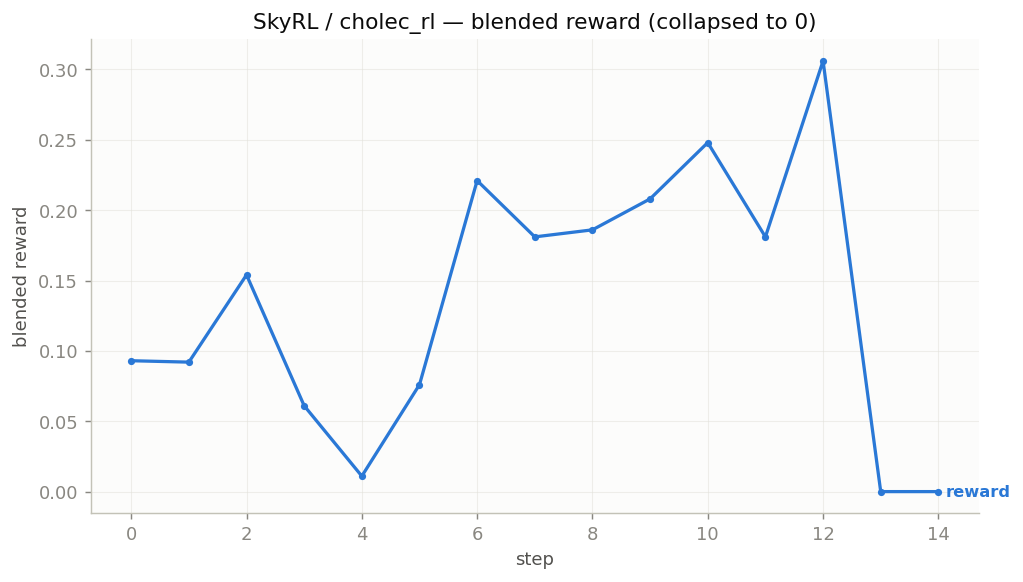
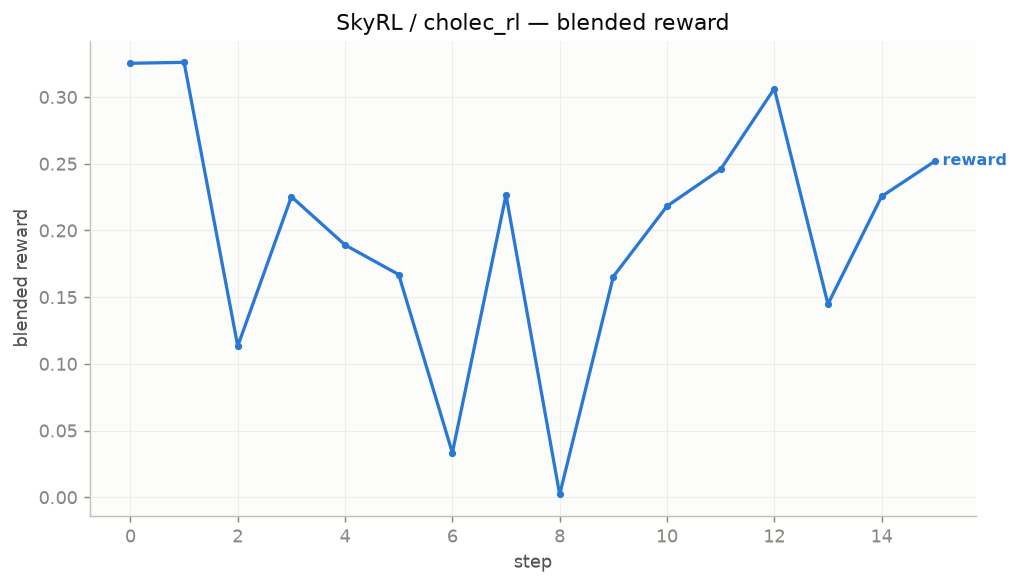
skyrl: update cholec_rl result to succeeded re-run
Regenerate SkyRL CholecT50 results from the updated source repo:
state failed -> succeeded, 16 steps, final_score 0.0, new 16-point
reward curve. Also drop the stale "(collapsed to 0)" chart title.

diff --git a/generate_all.py b/generate_all.py
@@ -574,7 +574,7 @@ def build_skyrl(src, root):
         s["series"]["reward"] = series(range(len(rc)), rc)
     s["source_files"].append(f"{p}/metrics/final_results.json")
     plot_curve(s, os.path.join(root, p, "cholec_rl"), "reward_vs_step.png",
-               "SkyRL / cholec_rl — blended reward (collapsed to 0)", "step", "blended reward",
+               "SkyRL / cholec_rl — blended reward", "step", "blended reward",
                [(range(len(rc)), rc, BLUE, "reward")])
     write_json(os.path.join(root, p, "cholec_rl", "summary.json"), s)
     return [s]
